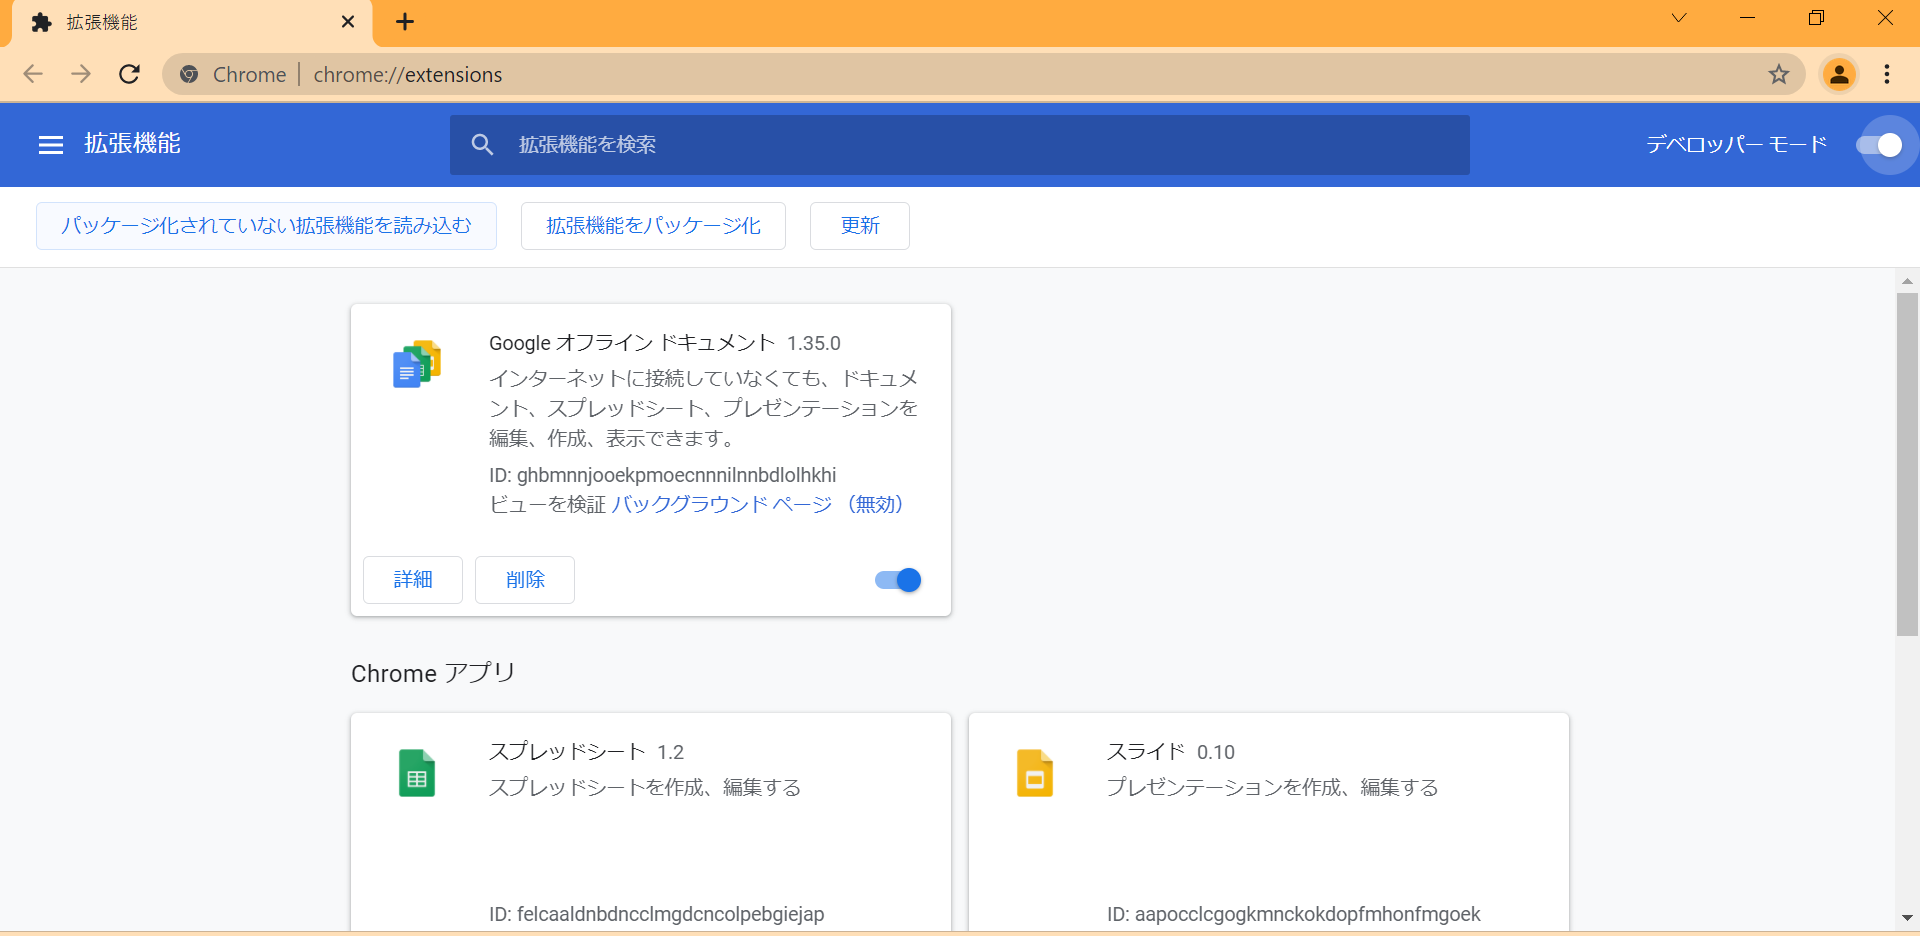
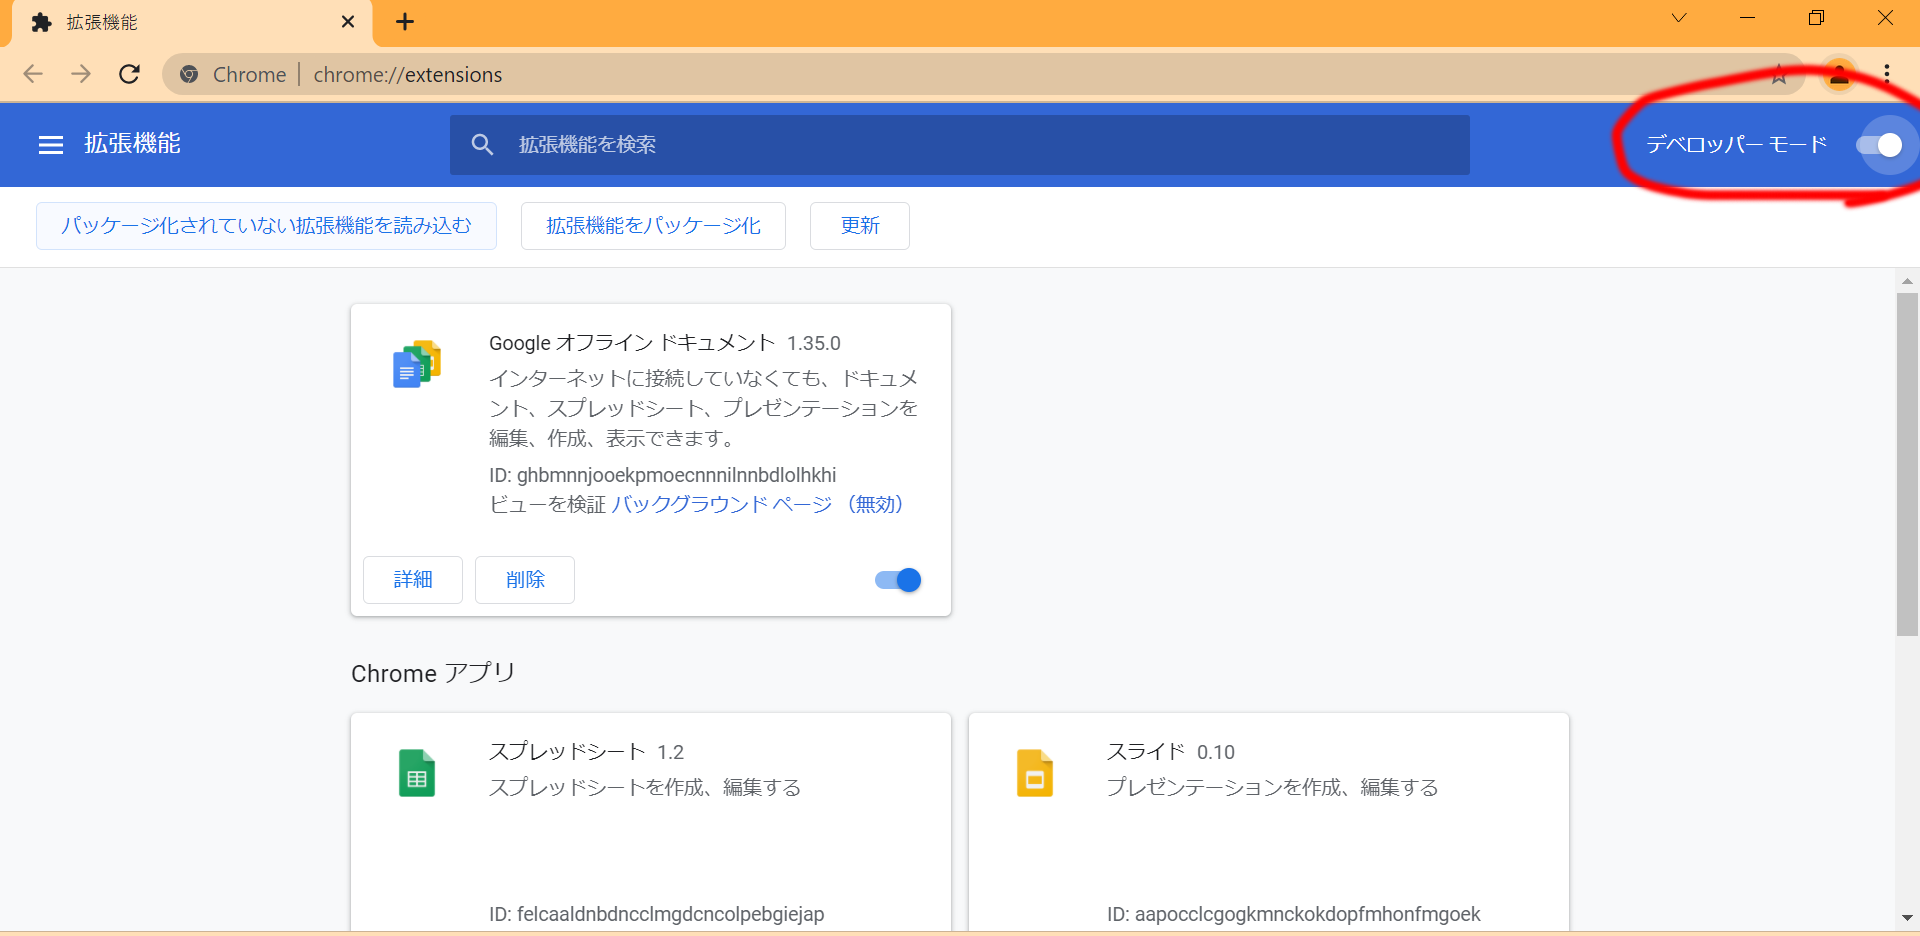
simplify the installation

Changed region(s): [[0.8125, 0.062, 1.0, 0.2169]]

diff --git a/bigNotSubmitted.js b/bigNotSubmitted.js
@@ -10,6 +10,7 @@ greenTextElems.forEach(elem => {
         notSubmittedElems.push(elem)
     }
 });
+console.log(notSubmittedElems)
 
 chrome.storage.sync.get({
     size: "30",
@@ -49,7 +50,7 @@ function enable_rainbow(OBJ, index) {
     // To create the elements.
     for (var i = 0; i < LEN; i++) {
         const CHARA = document.createElement('span');
-        CHARA.setAttribute('id',index+'Str' + i);
+        CHARA.setAttribute('id',index + 'Str' + i);
         //CHARA.setAttribute('name', 'Str' + i);
         CHARA.appendChild(document.createTextNode(STR.charAt(i)));
         OBJ.appendChild(CHARA);

diff --git a/README.md b/README.md
@@ -11,14 +11,14 @@ Code → Download ZIPを押してダウンロードします
 ダウンロードしたファイルを右クリック→すべて展開(Windows)か、ダブルクリックで展開(Mac)してください  
 ![a](images/photo_05.png)  
   
-次に、Chromeを開き、アドレスバーに[chrome://extensions](chrome://extensions)と入力し、アクセスします。一番右にある３つ点が縦に並んだやつ→その他のツール→拡張機能でもいいです。 
+次に、Chromeを開き、アドレスバーに[chrome://extensions](chrome://extensions)と入力し、アクセスします。一番右にある３つ点が縦に並んだやつ→その他のツール→拡張機能でもいいです。 
 ![a](images/photo_06.png)  
 以下の画面が開いたら、右上にあるデベロッパーモードをクリックして有効化してください  
-![a](images/photo_07.png)  
-そして、「パッケージ化されていない拡張機能を読み込む」をクリックして、
-![a](images/photo_08.png)
-ダウンロードしたフォルダ内の*srcフォルダ*を読み込みます  
-![a](images/photo_09.png)
+![a](images/photo_08.png)  
+そして、先程展開したものをここにドラッグアンドドロップします  
+![a](images/photo_09.png)  
+
+これで完了。おめでとう。  
 これで完了。おめでとう。
 
 
